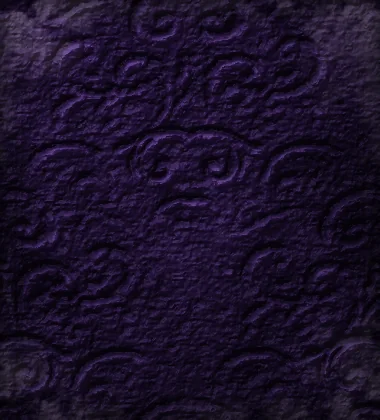
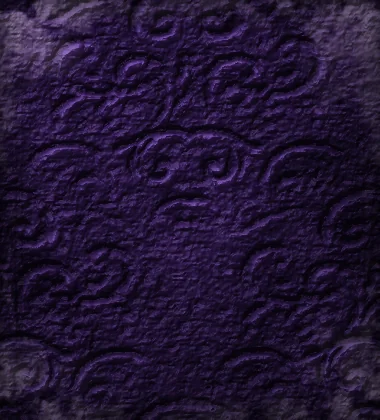
Round 58 VARISCITE: leather with the samples' damask, larger shop words, the plate clears every sign

diff --git a/game/src/scenes/combat.css b/game/src/scenes/combat.css
@@ -3812,13 +3812,13 @@
   scale: var(--friend-k, .76);
   z-index: var(--friend-z, 1);
 }
-.cb-hero--friend[data-place="0"] { --friend-dx: 9.7vw; --friend-dy: 5.5vh; --friend-k: .82; --friend-z: 2; }
+.cb-hero--friend[data-place="0"] { --friend-dx: 9.7vw; --friend-dy: 5.5vh; --friend-k: .82; }
 .cb-hero--friend[data-place="1"] { --friend-dx: -5.3vw; --friend-dy: 11.4vh; --friend-k: .76; }
-.cb-hero--friend[data-place="2"] { --friend-dx: 5.1vw; --friend-dy: 12.4vh; --friend-k: .74; }
+.cb-hero--friend[data-place="2"] { --friend-dx: 5.1vw; --friend-dy: 12.4vh; --friend-k: .74; --friend-z: 2; }
 .cb-hero--friend[data-place="1"] .pr-pal,
 .cb-hero--friend[data-place="1"] .pr-palshadow { translate: 24px 18px; }
 .cb-hero--friend[data-place="2"] .pr-pal,
-.cb-hero--friend[data-place="2"] .pr-palshadow { translate: 92px 10px; }
+.cb-hero--friend[data-place="2"] .pr-palshadow { translate: 106px 10px; }
 /* The Deck's 16:10 has less floor between the plates and the first creature, and more height. */
 @media (max-aspect-ratio: 17/10) {
   .cb-herohost:has(.cb-hero--friend) .cb-hero:not(.cb-hero--friend) { --hero-x: 23.5vw; }

diff --git a/game/src/ui/netplate.js b/game/src/ui/netplate.js
@@ -17,7 +17,7 @@ const CSS = new URL('./netplate.css', import.meta.url).href;
 const OUTSIDE = new Set(['title', 'clubhouse', 'select', 'lobby']);
 const NOTE_MS = 5000;
 /* What a hung plate must never cover in a fight: each creature's sign, intent, plate and Guard. */
-const KEEP_CLEAR = '.cb-enemy__above, .cb-enemy__intent, .cb-enemy__plate, .cb-enemy__guard, .cb-enemy__rule';
+const KEEP_CLEAR = '.cb-enemy__above, .cb-enemy__above *, .cb-enemy__plate, .cb-enemy__guard';
 const FACE = '<i class="net-plate__face"></i><i class="net-plate__chain net-plate__chain--l"></i><i class="net-plate__chain net-plate__chain--r"></i>';
 /* A rope's two ends, parted and frayed: somebody's line to the house has gone. */
 const MEDAL = '<i class="net-plate__medal" aria-hidden="true"><svg viewBox="0 0 32 32"><path d="M2.5 25.5 12 16M5.5 28.5 15 19"/><path d="M12 16l1-5M13.5 17.5l4-3.5M15 19l5 .5"/><path d="M29.5 6.5 21 15M26.5 3.5 18 12"/><path d="M21 15l-.5 5M19.5 13.5l-3.5 4M18 12l-5-1"/></svg></i>';

diff --git a/game/src/scenes/shop.css b/game/src/scenes/shop.css
@@ -1549,4 +1549,5 @@
 .scene--shop .sh-card .mm-card[data-rarity][data-type][data-uid].is-largetext .mm-card__rules { font-size: calc(20 * var(--u) * var(--rules-k, 1)); }
 .scene--shop .sh-card .mm-card[data-rarity][data-type][data-uid].is-text-long .mm-card__rules { font-size: calc(16.5 * var(--u) * var(--rules-k, 1)); }
 .scene--shop .sh-card .mm-card[data-rarity][data-type][data-uid].is-text-xlong .mm-card__rules { font-size: calc(14.5 * var(--u) * var(--rules-k, 1)); }
+.scene--shop .sh-card .mm-card[data-rarity][data-type][data-uid].is-fitted.is-board-fit:not(.is-text-long):not(.is-text-xlong) .mm-card__rules { font-size: calc(max(var(--rules-fit, 19), 19) * var(--u)); }
 /* == end round 58 == */

diff --git a/game/src/scenes/lobby.css b/game/src/scenes/lobby.css
@@ -902,6 +902,7 @@
   left: 5vw; top: 63.6vh;
   width: clamp(124px, 10.4vw, 166px); aspect-ratio: 170 / 112;
   background-image: url("../../assets/ui/r58-variscite/plan.webp");
+  filter: brightness(.8) saturate(.86);
   rotate: -1.6deg;
 }
 .lo-wall--square {
@@ -918,8 +919,8 @@
   width: clamp(84px, 7vw, 112px); aspect-ratio: 132 / 34;
   transform-origin: 3% 50%;
   background-image: url("../../assets/ui/r58-variscite/pencil-red.webp");
-  rotate: 68deg;
-  translate: 0 8px;
+  rotate: 26deg;
+  translate: 0 6px;
 }
 .lo-wall--pencil::before {
   content: ''; position: absolute; left: -11px; top: 50%; width: 15px; height: 2px;

diff --git a/game/src/scenes/map.css b/game/src/scenes/map.css
@@ -2152,7 +2152,7 @@
   gap: 0 3px;
   padding: 0 clamp(14px, 1.5vw, 26px) 19px;
   border: 0; border-radius: 0;
-  background: url("../../assets/ui/r58-variscite/tray.webp") center bottom / 100% 62px no-repeat;
+  background: url("../../assets/ui/r58-variscite/tray.webp") center bottom / 100% calc(100% - 24px) no-repeat;
   box-shadow: none;
   filter: drop-shadow(0 7px 9px rgba(3, 3, 8, .72));
   color: #2a1a0c;

diff --git a/game/src/ui/netplate.css b/game/src/ui/netplate.css
@@ -43,7 +43,7 @@
    it hangs where it hides no sign, plate or intent (netplate.js finds the spot). Its words and
    both buttons are the size they always were. */
 .net-plate {
-  top: calc(var(--hud-h, 56px) + clamp(20px, 3.4vh, 34px));
+  top: calc(var(--hud-h, 56px) + clamp(12px, calc(12px + (100vw - 1280px) * .07), 34px));
   width: min(590px, calc(100% - 32px));
   padding: 13px 22px 15px 72px;
   gap: 7px;

diff --git a/tools/prep_r58_variscite.py b/tools/prep_r58_variscite.py
@@ -788,10 +788,10 @@ def leather(name, seed, stops, wear_col):
     edge = smooth(26, 2, prof + fbm(H, W, seed + 5, base=11, octaves=4) * 16)
     wear = np.clip(rub * .8 + edge * .55, 0, 1) * smooth(-.25, .35, mid + big * .5)
     wc = C(wear_col) * (.6 + d[..., None] * .7)
-    rgb = mix(rgb, wc, wear * .5)
+    rgb = mix(rgb, wc, wear * .6)
     # a sweep of lamplight over the upper left, gone by the foot
     pool = np.exp(-(((xx - W * .34) / (W * .6)) ** 2 + ((yy - H * .2) / (H * .62)) ** 2))
-    rgb = rgb * (.74 + pool[..., None] * .5)
+    rgb = rgb * (.9 + pool[..., None] * .62)
     rgb = scratches(rgb, seed + 6, n=46, length=(14, 110), bright=(.9, 1.55), angle=.9)
     # vignette into the frame
     rgb = rgb * (1 - np.exp(-prof / 16)[..., None] * .42)
